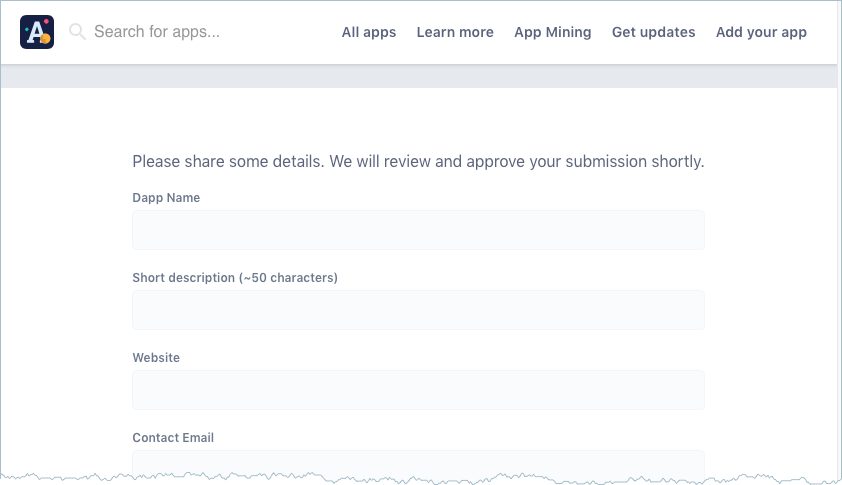
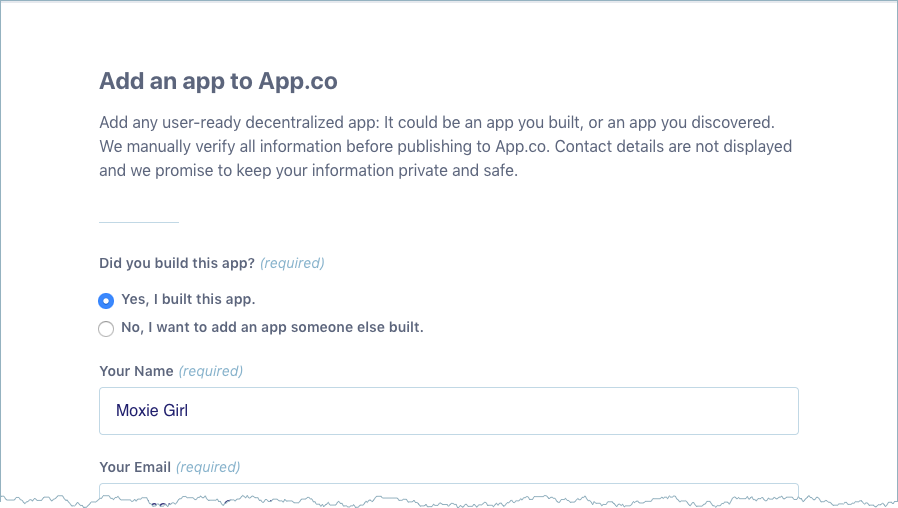
Updating form per Mitchell's comment

diff --git a/_develop/zero_to_dapp_4.md b/_develop/zero_to_dapp_4.md
@@ -52,13 +52,23 @@ To add an app, do the following:
 
 3. Complete the following fields.
 
-    <table class="uk-table uk-table-small">
-      <tr>
-        <th><strong>Field</strong></th>
+    <table class="uk-table-striped uk-table-small">
+    <thead>      
+     <tr>
+        <th class="uk-width-1-2"><strong>Field</strong></th>
         <th>Description</th>
       </tr>
+      </thead>
       <tr>
-        <td><strong>DApp Name</strong></td>
+        <td><strong>Your Name</strong></td>
+        <td>Your first and last name.</td>
+      </tr>
+      <tr>
+      <td><strong>Your Email</strong></td>
+        <td>A valid email address. This is the email where we will send you instructions for getting your Zero to DApp t-shirt.</td>
+      </tr>    
+      <tr>
+        <td><strong>App Name</strong></td>
         <td>Name of your sample. <code>USERNAME: Animal Kingdom</code> or, if you renamed it, the name you gave your application.</td>
       </tr>
       <tr>
@@ -70,12 +80,8 @@ To add an app, do the following:
         <td>The URL of the website where you deployed your application.&nbsp;&nbsp;</td>
       </tr>
       <tr>
-        <td><strong>Contact Email</strong></td>
-        <td>A valid email address. This is the email where we will send you instructions for getting your Zero to DApp t-shirt.</td>
-      </tr>
-      <tr>
-        <td><strong>Image URL</strong></td>
-        <td>You can leave this blank for a sample application.</td>
+        <td><strong>App icon URL</strong></td>
+        <td> <code>URL_DEPLOYED_SITE/icon-192x192.png</code> for example, <code>https://animalkingdoms.netlify.com/icon-192x192.png</code> &nbsp;&nbsp;</td>
       </tr>
       <tr>
         <td><strong>Open Source URL</strong></td>
@@ -86,12 +92,8 @@ To add an app, do the following:
         <td>Optionally enter a Twitter handle if you have one.</td>
       </tr>
       <tr>
-        <td><strong>Registration is open to all users</strong></td>
-        <td>Leave this unchecked.</td>
-      </tr>
-      <tr>
         <td><strong>Category</strong></td>
-        <td>Sample Blockstack Apps &amp;mdash; make sure you choose this category.</td>
+        <td><strong>Sample Blockstack Apps</strong> &amp;mdash; make sure you choose this category.</td>
       </tr>
       <tr>
         <td><strong>Blockchain</strong></td>
@@ -103,11 +105,13 @@ To add an app, do the following:
       </tr>
       <tr>
         <td><strong>Authentication</strong></td>
-        <td>Choose Blockstack</td>
+        <td>Choose Blockstack.</td>
       </tr>
     </table>    
 
-4. Press the **Submit** button.
+4. Check **App is publicly accessible and user-ready**.
+5. Agree to the terms.
+6. Press the **Submit** button.
 
    The Blockstack team will email you information about how to obtain your
    limited edition t-shirt at our store.

diff --git a/_develop/zero_to_dapp_3.md b/_develop/zero_to_dapp_3.md
@@ -42,7 +42,7 @@ focuses on the Blockstack Javascript library code instead.
 
 The <a href="https://blockstack.github.io/blockstack.js/"
 target="\_blank">Blockstack Javascript library is all a developer needs to
-create a DApp. It grants</a> the application the ability to authenticate a
+create a DApp</a>. It grants the application the ability to authenticate a
 Blockstack identity and to read and write to the user's data stored in a Gaia
 hub.
 
